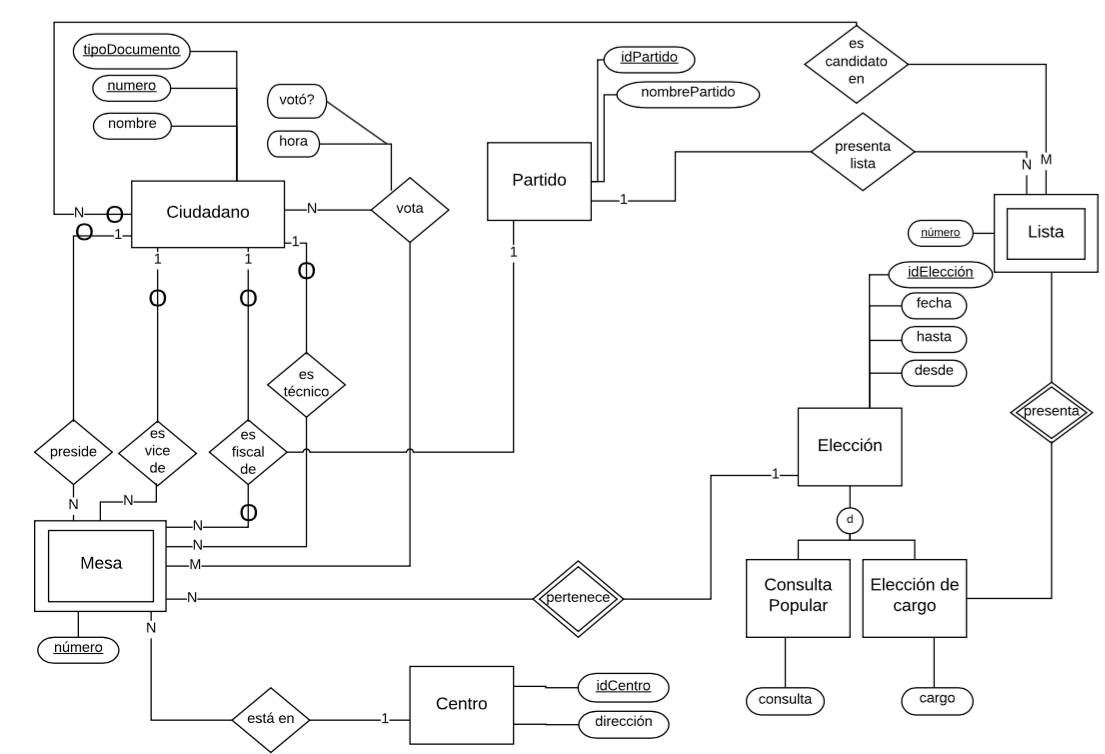
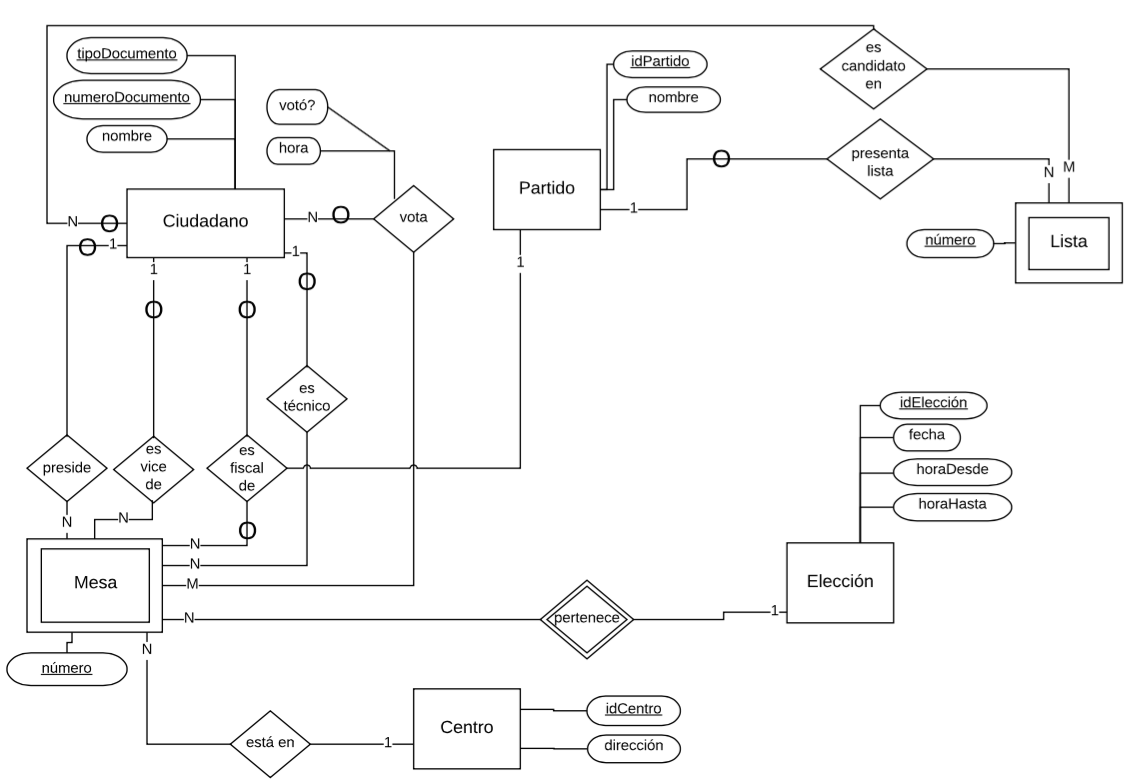
MRs y ultimo der

diff --git a/TP1/informe/main.tex b/TP1/informe/main.tex
@@ -3,24 +3,12 @@
 \usepackage[spanish]{babel}
 \usepackage{a4wide}
 \usepackage[sinEntregas]{caratula}
-\usepackage[norelsize]{algorithm2e}
-\usepackage{amsmath}
-\usepackage{amssymb}
+\usepackage{ulem}
 \usepackage{marginnote}
 \usepackage{fancyhdr}
 \usepackage{lastpage}
-\usepackage{amsthm}
-\usepackage{verbatim}
-\usepackage{color, colortbl}
 \usepackage{float}
-\definecolor{Gray}{gray}{0.9}
 \usepackage{tikz}
-\usepackage{array}
-\usepackage{amssymb}
-\usepackage{graphicx}
-\usepackage{subcaption}
-\definecolor{gogetit}{HTML}{6C8B9F}
-\definecolor{greencomments}{rgb}{0,0.5,0}
 
 \pagestyle{fancy}
 \thispagestyle{fancy}
@@ -35,7 +23,7 @@
 
 \begin{document}
 
-\fecha{17 de Abril de 2015}
+\fecha{8 de Mayo de 2015}
 
 \materia{Bases de Datos}
 %\submateria{Trabajo Pr\'actico Nº1}
@@ -75,13 +63,13 @@ Para lograr esto, debimos realizar un \textbf{Modelo de Entidad Relación} y su 
 
 \begin{figure}[H] %[h] Aqui [b] para button [t] para top
 \begin{center}
-\includegraphics[width=450pt]{./diagramas/DER01.png}
+\includegraphics[width=470pt]{./diagramas/DER01.png}
 \end{center}
 \end{figure}
 
 \begin{figure}[H] %[h] Aqui [b] para button [t] para top
 \begin{center}
-\includegraphics[width=450pt]{./diagramas/DER02.png}
+\includegraphics[width=470pt]{./diagramas/DER02.png}
 \end{center}
 \end{figure}
 
@@ -99,11 +87,177 @@ Presentamos las restricciones del Diagrama en lenguaje natural:
 \item En una mesa o bien se votan lista, o bien se votan opciones, según el tipo de elección en la que participe.
 \item La camioneta que conduce un ciudadano para una elección debe estar asignada a esa misma elección.
 \item Si un centro está asignado a una elección entonces ese centro tiene al menos una mesa que pertenece a esa elección.
+\item La hora de votación de un ciudadano debe ser menor o igual a la hora de fin de la elección.
+\item La hora de votación de un ciudadano debe ser mayor o igual a la hora de inicio de una elección.
 
 \end{itemize}
 \newpage
 \section{Modelo Relacional}
 
+\textbf{Elección}(\underline{idEleccion}, fecha, horaDesde, horaHasta, tipo)\\
+PK = CK = \{idEleccion\}\\
+
+\textbf{ConsultaPopular}(\underline{\underline{idEleccion}}, consulta)\\
+PK = CK = FK = \{idEleccion\}\\
+
+\textbf{ElecciónDeCargo}(\underline{\underline{idEleccion}}, cargo)\\
+PK = CK = FK = \{idEleccion\}\\
+
+\textbf{Opcion}(\underline{\underline{idEleccion}}, \underline{nombre})\\
+PK = CK = \{(idEleccion, nombre)\}\\
+FK = \{idEleccion\}\\
+
+\textbf{Centro}(\underline{idCentro}, direccion)\\
+PK = CK = \{idCentro\}\\
+
+\textbf{Mesa}(\underline{\underline{idEleccion}}, \underline{numero}, \dashuline{idCentro}, \dashuline{(tipoDocumentoPresidente, numeroDocumentoPresidente)}, \dashuline{(tipoDocumentoVicepresidente, numeroDocumentoVicepresidente)}, \dashuline{(tipoDocumentoFiscal, numero
+DocumentoFiscal)}, \dashuline{(tipoDocumentoTecnico, numeroDocumentoTecnico)})\\
+PK = CK = \{(idEleccion, numero)\}\\
+FK = \{idEleccion, idCentro, (tipoDocumentoPresidente, numeroDocumentoPresidente), (tipoDocumentoVicepresidente, numeroDocumentoVicepresidente), (tipoDocumentoTecnico, numeroDocumentoTecnico)\}\\
+
+\textbf{Lista}(\underline{\underline{idEleccion}}, \underline{numero}, \dashuline{idPartido})\\
+PK = CK = \{(idEleccion, numero)\}\\
+FK = \{idEleccion, idPartido\}\\
+
+\textbf{Partido}
+(\underline{idPartido},nombre)\\
+PK = CK = \{idEleccion\}\\
+
+\textbf{SeVotaOpcion}
+(\underline{\underline{idEleccion}}, \underline{\underline{numeroMesa}}, \underline{\underline{nombreOpcion}}, cantidadVotos)\\
+PK = CK = \{(idEleccion, numeroMesa, nombreOpcion)\}\\
+FK = \{(idEleccion, numeroMesa), (idEleccion, nombreOpcion)\}\\
+
+\textbf{SeVotaLista}
+(\underline{\underline{idEleccion}}, \underline{\underline{numeroMesa}}, \underline{\underline{numeroLista}}, cantidadVotos)\\
+PK = CK = \{(idEleccion, numeroMesa, numeroLista)\}\\
+FK = \{(idEleccion, numeroMesa), (idEleccion, numeroLista)\}\\
+
+\textbf{Ciudadano}
+(\underline{tipoDocumento}, \underline{numeroDocumento},nombre)\\
+PK = CK = \{(tipoDocumento,numeroDocumento)\}\\
+
+\textbf{Conduce}
+(\underline{\underline{tipoDocumento}, \underline{numeroDocumento}, \underline{idEleccion}}, \dashuline{patente})\\
+PK = \{(tipoDocumento, numeroDocumento, idEleccion)\}\\
+CK = \{(tipoDocumento, numeroDocumento, idEleccion), (idEleccion, patente)\}\\
+FK = \{(tipoDocumento, numeroDocumento), idEleccion, patente\}\\
+
+\textbf{Asignada}
+(\underline{\underline{idEleccion}, \underline{idCentro}}, \dashuline{patente})\\
+PK = \{(idEleccion, idCentro)\}\\
+CK = \{(idEleccion, idCentro), (idEleccion, patente)\}\\
+FK = \{idEleccion, idCentro\}\\
+
+\textbf{Camioneta}
+(\underline{patente})\\
+PK = CK = \{patente\}\\
+
+\textbf{Vota}
+(\underline{\underline{tipoDocumento}},\underline{numeroDocumento},\underline{\underline{idEleccion}, \underline{numeroMesa}}, votó?, hora)\\
+PK = CK = \{(tipoDocumento, numeroDocumento, idEleccion, numeroMesa)\}\\
+FK = \{(tipoDocumento, numeroDocumento), (idEleccion, numeroMesa)\}\\
+
+\textbf{EsFiscalDe}
+(\underline{\underline{tipoDocumento}, \underline{numeroDocumento},
+\underline{idEleccion},
+\underline{numeroMesa}}, \dashuline{idPartido})\\
+PK = \{(tipoDocumento, numeroDocumento, idEleccion, numeroMesa)\}\\
+CK = \{(tipoDocumento, numeroDocumento, idEleccion, numeroMesa),(idEleccion, numeroMesa, idPartido)\}\\
+FK = \{(tipoDocumento, numeroDocumento), (idEleccion, numeroMesa), idPartido\}\\
+
+\textbf{EsCandidatoEn}
+(\underline{\underline{tipoDocumento}, \underline{numeroDocumento},
+\underline{idEleccion},
+\underline{numeroLista}})\\
+PK = CK = \{(tipoDocumento, numeroDocumento, idEleccion, numeroLista)\}\\
+FK = \{(tipoDocumento, numeroDocumento), (idEleccion, numeroLista)\}\\
+
+\subsection{Restricciones Adicionales}
+\begin{itemize}
+\item \textit{ConsultaPopular.idEleccion} debe estar en \textit{Eleccion.idEleccion}
+
+\item \textit{EleccionDeCargo.idEleccion} debe estar en \textit{Eleccion.idEleccion}
+
+\item \textit{Eleccion.idEleccion} puede estar en \textit{EleccionDeCargo.idEleccion} o (exclusivo) \textit{ConsultaPopular.idEleccion} o (exclusivo) no estar en ninguno de los dos anteriores.
+
+\item \textit{Partido.idPartido} puede no estar en \textit{Lista.idPartido}.
+
+\item \textit{Lista.idPartido} debe estar en \textit{Partido.idPartido}.
+
+\item \textit{SeVotaOpcion.nombreOpcion} debe estar en \textit{Opcion.nombre}.
+
+\item \textit{SeVotaOpcion.numeroMesa} debe estar en \textit{Mesa.numero}.
+
+\item \textit{SeVotaOpcion.idEleccion} debe estar en \textit{Opcion.idEleccion}.
+
+\item \textit{Opcion.idEleccion} debe estar en \textit{ConsultaPopular.idEleccion}.
+
+\item \textit{Opcion.nombre} debe estar en \textit{SeVotaOpcion.nombreOpcion}.
+
+\item \textit{Opcion.idEleccion} debe estar en \textit{SeVotaOpcion.idEleccion}.
+
+\item \textit{SeVotaLista.idEleccion} debe estar en \textit{EleccionDeCargo.idEleccion}.
+
+\item \textit{SeVotaLista.numeroMesa} debe estar en \textit{Mesa.numero}.
+
+\item \textit{SeVotaLista.numeroLista} debe estar en \textit{Lista.numero}.
+
+\item \textit{Lista.numero} debe estar en \textit{SeVotaLista.numeroLista}.
+
+\item \textit{Lista.idEleccion} debe estar en \textit{SeVotaLista.idEleccion}.
+
+\item \textit{Mesa.numero} puede no estar en \textit{SeVotaLista.numeroLista}.
+
+\item \textit{Mesa.numero} puede no estar en \textit{SeVotaLista.numeroMesa}.
+
+\item \textit{Mesa.numero} puede no estar en \textit{SeVotaOpcion.numeroMesa}
+
+\item \textit{Mesa.numero} debe estar en \textit{SeVotaOpcion.numeroMesa} o(exclusivo) en \textit{SeVotaLista.numeroMesa}
+
+\item \textit{Lista.idEleccion} debe estar en \textit{EleccionDeCargo.idEleccion}.
+
+\item \textit{ConsultaPopular.idEleccion} debe estar en \textit{Opcion.idEleccion}.
+
+\item \textit{EleccionDeCargo.idEleccion} debe estar en \textit{Lista.idEleccion}.
+
+\item \textit{Asignada.idCentro} debe estar en \textit{Centro.idCentro}.
+
+\item \textit{Asignada.idEleccion} debe estar en \textit{Eleccion.idEleccion}.
+
+\item \textit{Centro.idCentro} debe estar en \textit{asignada.idCentro}.
+
+\item \textit{Eleccion.idEleccion} debe estar en \textit{asignada.idEleccion}.
+
+\item \textit{Asignada.patente} debe estar en \textit{Camioneta.patente}.
+
+\item \textit{Camioneta.patente} debe estar en \textit{Asignada.patente}.
+
+\item \textit{Conduce.patente} debe estar en \textit{Camioneta.patente}.
+
+\item \textit{Camioneta.patente} debe estar en \textit{Conduce.patente}.
+
+\item \textit{Conduce.idEleccion} debe estar en \textit{Eleccion.idEleccion}.
+
+\item \textit{Eleccion.idEleccion} debe estar en \textit{Conduce.idEleccion}.
+
+\item \textit{(Ciudadano.tipoDocumento, Ciudadano.numeroDocumento)} puede no estar en \textit{(Conduce.tipoDocumento, Conduce.numeroDocumento)}.
+
+\item \textit{(Conduce.tipoDocumento, Conduce.numeroDocumento)} debe estar en \textit{(Ciudadano.tipoDocumento, Ciudadano.numeroDocumento)}.
+
+\item \textit{Lista.idPartido} debe estar en \textit{Partido.idPartido}.
+
+\item \textit{Partido.idPartido} puede no estar en \textit{Lista.idPartido}.
+
+\item \textit{EsCandidato.numero} debe estar en \textit{Lista.numero}.
+
+\item \textit{Lista.numero} debe estar en \textit{EsCandidato.numero}.
+
+\item \textit{(EsCandidato.tipoDocumento, EsCandidato.numeroDocumento)} debe estar en \textit{(Ciudadano.tipoDocumento, Ciudadano.numeroDocumento)}.
+
+\item \textit{(Ciudadano.tipoDocumento, Ciudadano.numeroDocumento)} puede no estar en \textit{(EsCandidato.tipoDocumento, EsCandidato.numeroDocumento)}.
+
+\end{itemize}
 \newpage
 \section{Supuestos asumidos}
 Para un correcto diseño del Sistema, debimos tomar las siguientes decisiones sobre la situación presentada:
@@ -111,8 +265,9 @@ Para un correcto diseño del Sistema, debimos tomar las siguientes decisiones so
 \item Consideramos que los ciudadanos que están en el padrón se encuentran habilitados para votar.
 \item Las elecciones no duran más de un día.
 \item En una consulta popular, se puede optar por Sí o por No.
+\item Una lista vale para una sola elección.
 \end{itemize}
-%\newpage
+\newpage
 
 
 %\section{Diseño físico}
